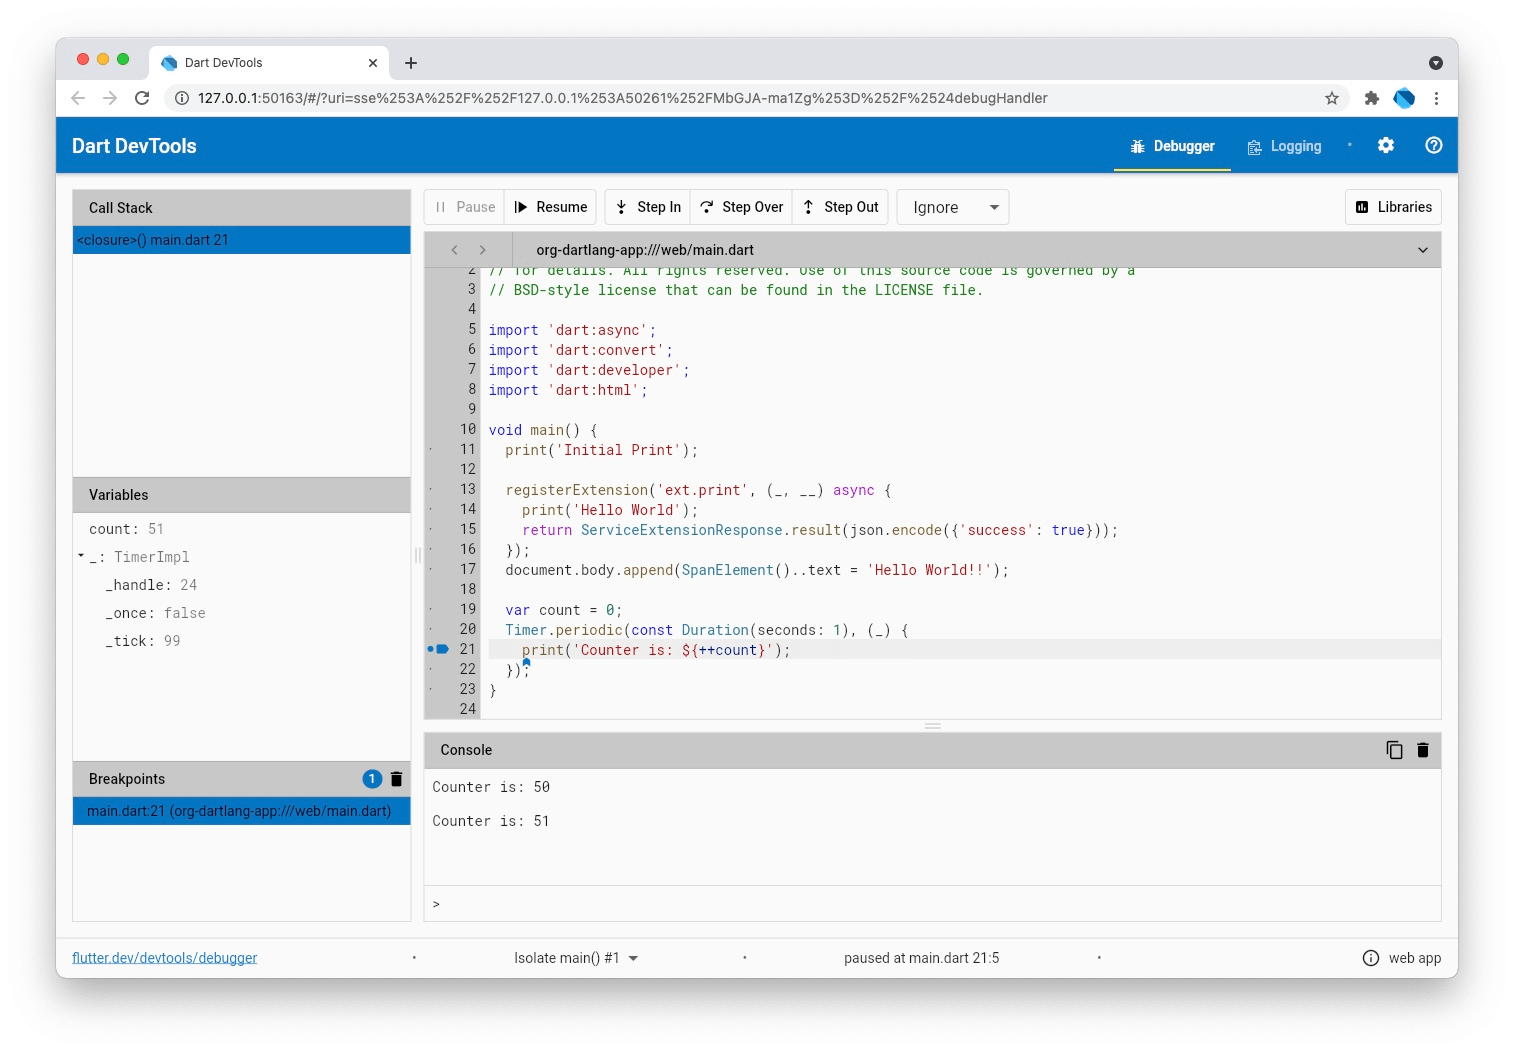
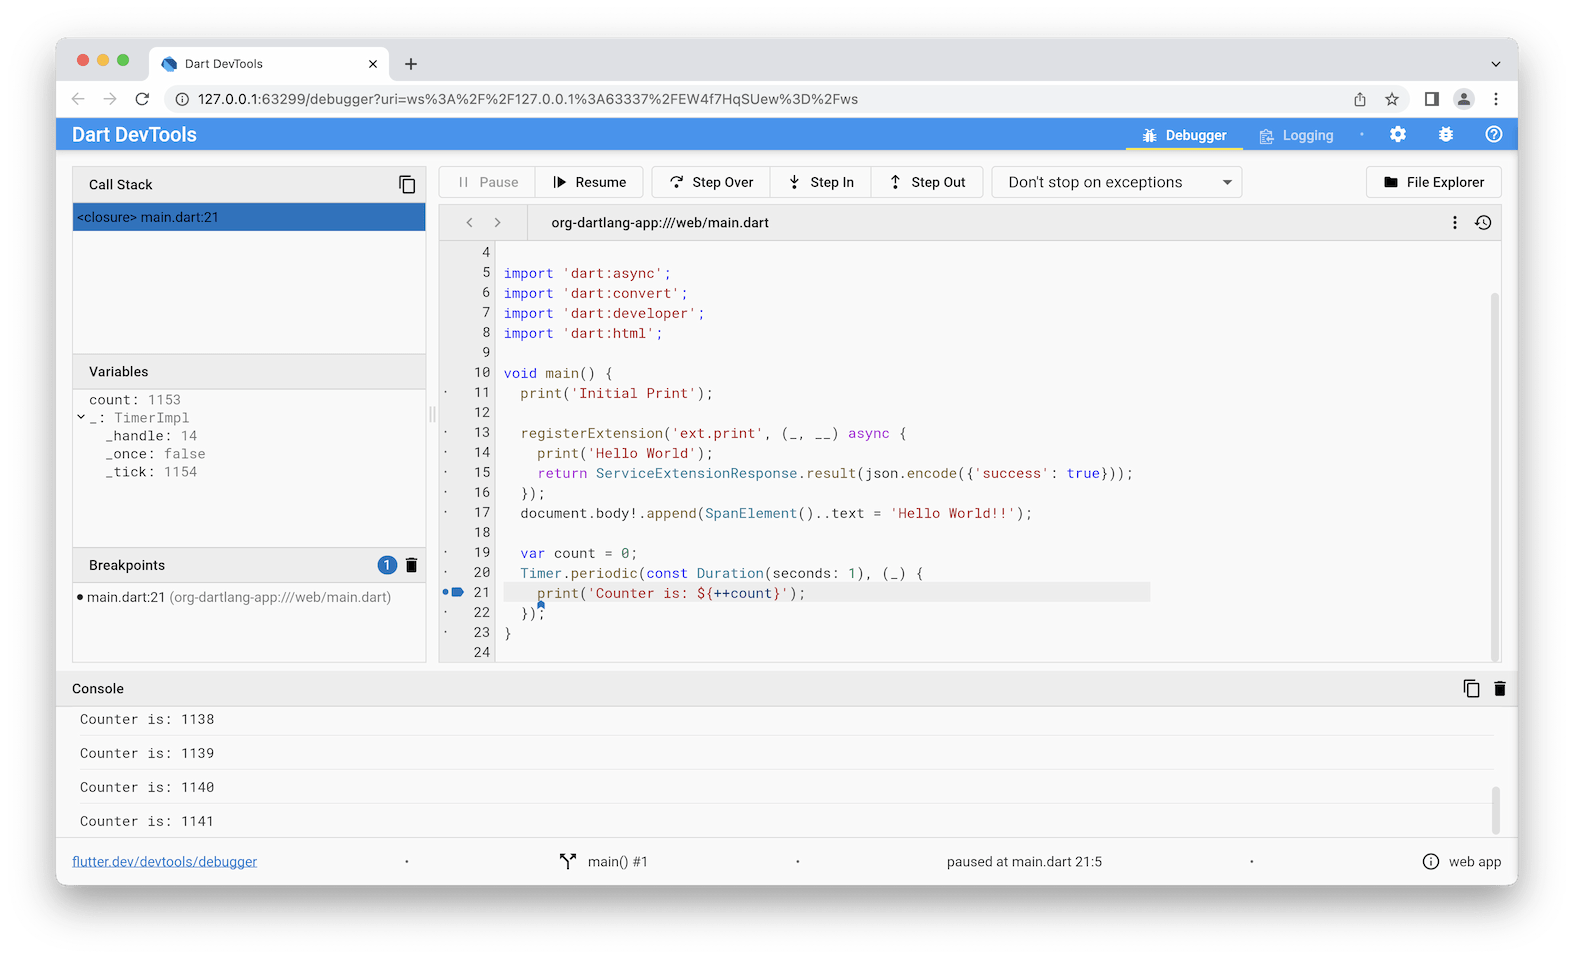
Update Debugging Dart web apps page
Fixes links and updates screenshot.

Fixes #4104

diff --git a/src/web/debugging.md b/src/web/debugging.md
@@ -85,7 +85,7 @@ but you'll need to adjust the instructions to match your app.
    $ dart pub get
    ```
 
-1. Compile and serve the app with dartdevc,
+1. Compile and serve the app in debug mode with dartdevc,
    using either your IDE or `webdev` at the command line.
 
    {{site.alert.note}}
@@ -105,8 +105,9 @@ but you'll need to adjust the instructions to match your app.
      $ webdev serve --debug-extension
      ```
 
-   * Otherwise, use the following command, which launches a new instance of
-     Chrome and runs the app:
+   * Otherwise, use the following command, 
+     which launches a new instance of Chrome
+     and runs the app:
 
      ```terminal
      $ webdev serve --debug
@@ -167,12 +168,10 @@ but you'll need to adjust the instructions to match your app.
 
 If you're using the command line instead of an IDE or Dart-enabled editor,
 then you need the [webdev tool][webdev].
-To use Dart DevTools, you also need the [devtools package.][devtools-pkg]
-Use pub to get these tools:
+Dart DevTools is provided by the SDK.
 
 ```terminal
 $ dart pub global activate webdev
-$ dart pub global activate devtools
 ```
 
 If your PATH environment variable is set up correctly,
@@ -192,7 +191,6 @@ update the tools by activating them again:
 
 ```terminal
 $ dart pub global activate webdev     # update webdev
-$ dart pub global activate devtools   # update devtools
 ```
 
 ## Resources
@@ -208,6 +206,7 @@ For more information, see the following:
 
 [Chrome DevTools]: https://developer.chrome.com/docs/devtools/
 [Dart Debug Extension]: https://chrome.google.com/webstore/detail/dart-debug-extension/eljbmlghnomdjgdjmbdekegdkbabckhm
+[dartdevc]: /tools/dartdevc
 [Dart DevTools]: /tools/dart-devtools
 [IDE]: /tools#ides-and-editors
 [Dart SDK]: /get-dart
